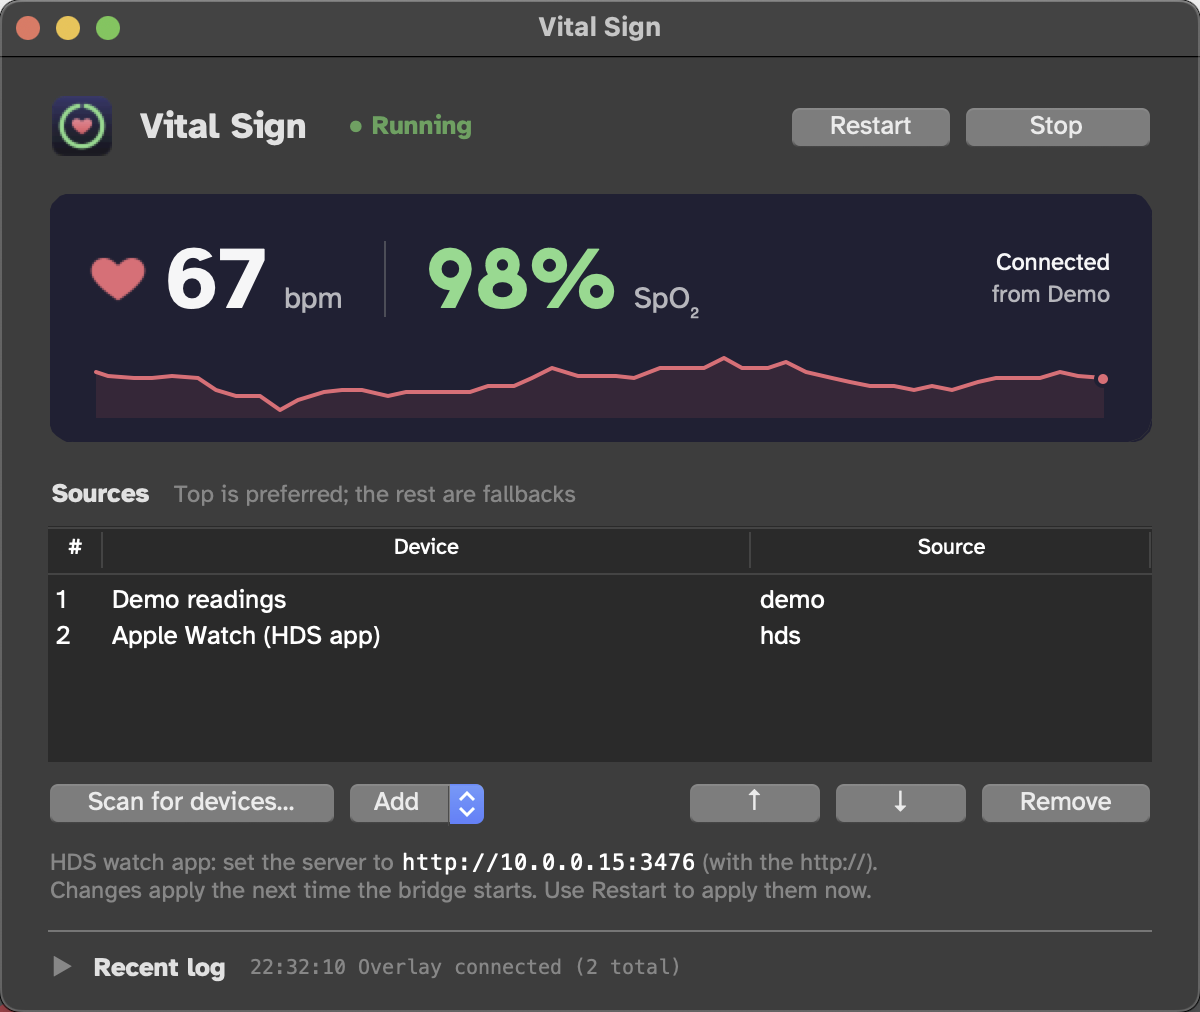
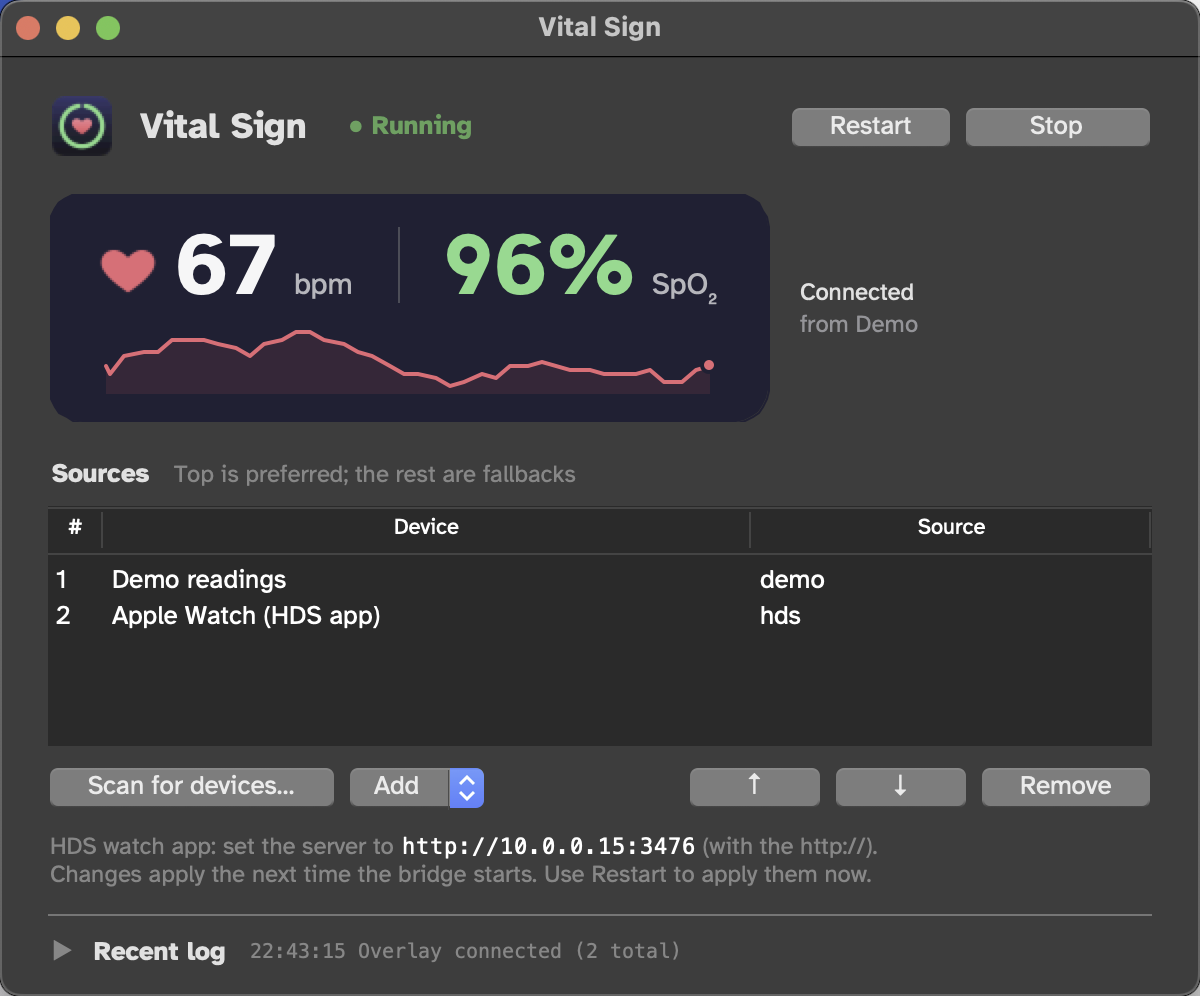
Make the control window's readout look like the OBS widget
The panel is now sized to its numbers with overlay.html's proportions
(scaled from 56 px to 44 px values), the trend is exactly as wide as the
heart-rate/SpO2 row, and the connection status moved out of the panel to
sit beside it. Previously the panel stretched across the window with the
trend running under the status text.

diff --git a/gui.py b/gui.py
@@ -60,6 +60,10 @@ EMPTY_SOURCES = "(none: the bridge scans for one supported Bluetooth device)"
 SOURCE_COLUMN_PX = 200
 # The platform's own text color (follows light/dark mode on macOS).
 TEXT_COLOR = {"darwin": "systemTextColor", "win32": "SystemWindowText"}.get(sys.platform, "black")
+STATUS_COLOR = {"darwin": "systemLabelColor", "win32": "SystemWindowText"}.get(sys.platform, "black")
+# Tk drops the alpha of macOS's secondary label color, so a fixed gray
+# that reads on both light and dark windows stands in for it.
+STATUS_SECONDARY = "#8e8e93"
 
 # bridge.log lines: "2026-10-11 21:20:58,376 INFO message"
 _LOG_LINE = re.compile(r"^\d{4}-\d\d-\d\d (\d\d:\d\d:\d\d),\d+ (\w+) (.*)$")
@@ -142,11 +146,24 @@ class Fonts:
 
 
 class Readout(tk.Canvas):
-    """A copy of the overlay panel: heart, BPM, SpO2, status, 5-minute trend."""
+    """The overlay's panel, as OBS shows it, plus status lines beside it.
 
-    PAD_TOP, PAD_SIDE, PAD_BOTTOM = 16, 20, 12
+    The panel is sized to its numbers like overlay.html's (whose
+    proportions are scaled here from its 56 px values to 44 px): heart and
+    BPM, a divider, SpO2, and the trend underneath, exactly as wide as that
+    row. The connection status sits outside the panel, on the window.
+    """
+
+    SCALE = 44 / 56  # overlay.html's .value is 56 px
+    PAD_X, PAD_Y = round(32 * SCALE), round(18 * SCALE)
+    GAP = round(10 * SCALE)  # inside a metric, and between the row and the trend
+    METRIC_GAP = round(28 * SCALE)  # around the divider
+    DIVIDER_H = round(48 * SCALE)
+    TREND_H = round(44 * SCALE)
+    RADIUS = round(20 * SCALE)
+    ROW_H = 44  # .value has line-height: 1
     HEART = 30
-    TREND_H, TREND_GAP = 34, 8
+    STATUS_GAP = 16
 
     def __init__(self, parent: tk.Misc, fonts: Fonts, bg: str) -> None:
         self.fonts = fonts
@@ -155,8 +172,7 @@ class Readout(tk.Canvas):
             stale: tk.PhotoImage(master=parent, file=str(brand.UI_DIR / name))
             for stale, name in ((False, "heart.png"), (True, "heart-stale.png"))
         }
-        self.row_h = fonts.value.metrics("linespace")
-        height = self.PAD_TOP + self.row_h + self.TREND_GAP + self.TREND_H + self.PAD_BOTTOM
+        height = self.PAD_Y + self.ROW_H + self.GAP + self.TREND_H + self.PAD_Y
         # 552 wide sets the window's natural width (600 with its padding).
         super().__init__(parent, width=552, height=height, highlightthickness=0, bd=0, bg=bg)
         self.hr: int | None = None
@@ -165,6 +181,8 @@ class Readout(tk.Canvas):
         self.source_line = ""
         self.stale = True
         self.history: list[tuple[float, int]] = []
+        self.panel_width = 0.0
+        self.trend_box = (0.0, 0.0, 0.0, 0.0)
         self.bind("<Configure>", lambda _e: self.redraw())
 
     def color(self, c: str) -> str:
@@ -185,46 +203,64 @@ class Readout(tk.Canvas):
         w = max(self.winfo_width(), 1)
         h = int(self.cget("height"))
         f = self.fonts
-        smooth_shape(self, brand.rounded_rect_points(0.5, 0.5, w - 0.5, h - 0.5, 12), brand.PANEL)
+        top = self.PAD_Y
+        # Baseline of a line-height: 1 box, as in the overlay's CSS.
+        ascent, descent = f.value.metrics("ascent"), f.value.metrics("descent")
+        baseline = top + (self.ROW_H - (ascent + descent)) / 2 + ascent
+        mid = top + self.ROW_H / 2
 
-        top = self.PAD_TOP
-        baseline = top + f.value.metrics("ascent")
-        mid = baseline - f.value.metrics("ascent") * 0.36  # middle of the digits
-        x = self.PAD_SIDE
-
-        self.create_image(x, mid - self.HEART / 2, image=self.heart_images[self.stale], anchor="nw")
-        x += self.HEART + 8
-        x = self._text(x, baseline, str(self.hr) if self.hr else "--", f.value, brand.INK) + 8
-        x = self._text(x, baseline, "bpm", f.unit, brand.INK_MUTED) + 20
-        self.create_line(x, mid - 19, x, mid + 19, fill=self.color(brand.DIVIDER))
-        x += 20 + 1
-
+        # Lay the row out first: the panel is sized to it.
+        items: list = []
+        x = self.PAD_X
+        items.append(("heart", x))
+        x += self.HEART + self.GAP
+        hr_text = str(self.hr) if self.hr else "--"
+        items.append(("text", x, hr_text, f.value, brand.INK))
+        x += f.value.measure(hr_text) + self.GAP
+        items.append(("text", x, "bpm", f.unit, brand.INK_MUTED))
+        x += f.unit.measure("bpm") + self.METRIC_GAP
+        items.append(("divider", x))
+        x += 1 + self.METRIC_GAP
         if self.spo2:
             spo2_color, marker = brand.spo2_severity(self.spo2)
-            x = self._text(x, baseline, f"{self.spo2}%", f.value, spo2_color)
+            items.append(("text", x, f"{self.spo2}%", f.value, spo2_color))
+            x += f.value.measure(f"{self.spo2}%")
             if marker:
-                self.create_text(
-                    x + 3, baseline - f.value.metrics("ascent") + 4, text=marker, font=f.marker,
-                    fill=self.color(spo2_color), anchor="nw",
-                )
+                items.append(("marker", x + 3, marker, spo2_color))
                 x += 3 + f.marker.measure(marker)
         else:
-            x = self._text(x, baseline, "--", f.value, brand.INK)
-        x = self._text(x + 8, baseline, "SpO₂", f.unit, brand.INK_MUTED)
+            items.append(("text", x, "--", f.value, brand.INK))
+            x += f.value.measure("--")
+        x += self.GAP
+        items.append(("text", x, "SpO₂", f.unit, brand.INK_MUTED))
+        row_right = x + f.unit.measure("SpO₂")
+        self.panel_width = row_right + self.PAD_X
 
-        # Right-aligned status, cut to the room left of it so a long device
-        # name can't run back over the numbers.
+        smooth_shape(self, brand.rounded_rect_points(0.5, 0.5, self.panel_width - 0.5, h - 0.5, self.RADIUS), brand.PANEL)
+        for item in items:
+            kind = item[0]
+            if kind == "heart":
+                # The overlay aligns the icon's box to the numbers' baseline.
+                self.create_image(item[1], baseline + 3, image=self.heart_images[self.stale], anchor="sw")
+            elif kind == "text":
+                _kind, ix, text, font, color = item
+                self._text(ix, baseline, text, font, color)
+            elif kind == "divider":
+                self.create_line(item[1], mid - self.DIVIDER_H / 2, item[1], mid + self.DIVIDER_H / 2, fill=self.color(brand.DIVIDER))
+            elif kind == "marker":
+                _kind, ix, marker, color = item
+                self.create_text(ix, baseline - ascent + 4, text=marker, font=f.marker, fill=self.color(color), anchor="nw")
+
+        self.trend_box = (self.PAD_X, top + self.ROW_H + self.GAP, row_right - self.PAD_X, self.TREND_H)
+        self._draw_trend(*self.trend_box)
+
+        # Status beside the panel, cut to the room that's left.
         line_h = f.small.metrics("linespace")
-        y = mid - (2 * line_h + 2) / 2
-        right = w - self.PAD_SIDE
-        room = max(right - x - 16, 0)
-        for i, (text, color) in enumerate(((self.state_line, brand.INK), (self.source_line, brand.INK_MUTED))):
-            self.create_text(
-                right, y + i * (line_h + 2), text=fit_text(text, f.small, room), font=f.small,
-                fill=self.color(color), anchor="ne",
-            )
-
-        self._draw_trend(self.PAD_SIDE, top + self.row_h + self.TREND_GAP, w - 2 * self.PAD_SIDE, self.TREND_H)
+        sx = self.panel_width + self.STATUS_GAP
+        room = max(w - sx, 0)
+        y = h / 2 - (2 * line_h + 2) / 2
+        for i, (text, color) in enumerate(((self.state_line, STATUS_COLOR), (self.source_line, STATUS_SECONDARY))):
+            self.create_text(sx, y + i * (line_h + 2), text=fit_text(text, f.small, room), font=f.small, fill=color, anchor="nw")
 
     def _text(self, x: float, baseline: float, text: str, font: tkfont.Font, color: str) -> float:
         """Draw ``text`` on ``baseline``; return the x just after it."""

diff --git a/tests/test_gui.py b/tests/test_gui.py
@@ -106,19 +106,18 @@ class GuiTest(unittest.TestCase):
         self.app._show_reading({"type": "reading", "worn": False, "source": "Ring"})
         self.assertEqual((r.hr, r.state_line, r.stale), (None, "Not worn", False))
 
-    def test_long_source_names_stop_short_of_the_numbers(self):
+    def test_long_source_names_stay_beside_the_panel(self):
         r = self.app.readout
         r.winfo_width = lambda: 552
         self.app.bridge_up = True
         name = "A Very Long Bluetooth Device Name That Goes On " * 3
         self.app._show_reading({"type": "reading", "hr": 100, "spo2": 100, "worn": True, "hr_source": name})
-        spo2_unit = next(i for i in r.find_all() if r.type(i) == "text" and r.itemcget(i, "text") == "SpO₂")
         source = next(i for i in r.find_all() if r.type(i) == "text" and r.itemcget(i, "text").startswith("from"))
-        self.assertTrue(r.itemcget(source, "text").endswith("…"))
-        # The source line's left edge stays right of the SpO2 label's right edge.
-        unit_right = r.coords(spo2_unit)[0] + self.app.fonts.unit.measure("SpO₂")
-        source_left = r.coords(source)[0] - self.app.fonts.small.measure(r.itemcget(source, "text"))
-        self.assertGreater(source_left, unit_right)
+        text = r.itemcget(source, "text")
+        self.assertTrue(text.endswith("…"))
+        left = r.coords(source)[0]
+        self.assertGreater(left, r.panel_width)  # outside the panel...
+        self.assertLessEqual(left + self.app.fonts.small.measure(text), 552)  # ...and inside the window
 
     def test_trend_spans_the_width_from_its_first_reading(self):
         r = self.app.readout
@@ -131,8 +130,18 @@ class GuiTest(unittest.TestCase):
         r.redraw()
         line = [i for i in r.find_all() if r.type(i) == "line" and len(r.coords(i)) == 6]
         xs = r.coords(line[-1])[0::2]
-        self.assertAlmostEqual(xs[0], r.PAD_SIDE + 4, delta=1)  # first reading at the left edge...
-        self.assertAlmostEqual(xs[-1], 552 - r.PAD_SIDE - 4, delta=2)  # ...newest at the right
+        x0, _y0, width, _h = r.trend_box
+        self.assertAlmostEqual(xs[0], x0 + 4, delta=1)  # first reading at the left edge...
+        self.assertAlmostEqual(xs[-1], x0 + width - 4, delta=2)  # ...newest at the right
+
+    def test_panel_is_sized_to_its_numbers_like_the_overlay(self):
+        r = self.app.readout
+        r.winfo_width = lambda: 552
+        r.hr, r.spo2 = 72, 98
+        r.redraw()
+        x0, _y0, width, _h = r.trend_box
+        self.assertLess(r.panel_width, 552 - 100)  # leaves room beside it for the status
+        self.assertAlmostEqual(x0 + width + r.PAD_X, r.panel_width)  # trend as wide as the row
 
     def test_log_summary_line(self):
         line, color = self.gui.short_log_line("2026-10-11 21:20:58,376 INFO Overlay connected (1 total)")

diff --git a/README.md b/README.md
@@ -117,15 +117,17 @@ connections for Python if the firewall asks.
 
 ## Control app
 
-![The Vital Sign control window: status and Start/Stop at the top, a live readout like the overlay's, the source list, and a collapsed log](docs/control-window.png)
+![The Vital Sign control window: status and Start/Stop at the top, the overlay's panel with the connection status beside it, the source list, and a collapsed log](docs/control-window.png)
 
 A small window for starting and stopping the bridge, watching the live
 numbers, and choosing sources without editing files. From the top:
 
 - **Header:** the bridge's status, Restart, and one Start/Stop button.
-- **Readout:** the same panel the overlay shows -- heart rate, SpO2 with
-  its severity color and marker, a 5-minute trend, and which source each
-  number comes from. It dims when readings stop, like the overlay.
+- **Readout:** a smaller copy of the overlay exactly as OBS shows it --
+  heart rate, SpO2 with its severity color and marker, and the 5-minute
+  trend, sized to its numbers. Beside it: the connection status and which
+  source each number comes from. It dims when readings stop, like the
+  overlay.
 - **Sources:** top is preferred, the rest are fallbacks. Scan for Bluetooth
   devices, add Apple Watch (HDS) or demo readings from **Add**, reorder with
   ↑/↓, remove. With HDS listed, the exact address to give the watch app is

diff --git a/CHANGELOG.md b/CHANGELOG.md
@@ -43,9 +43,9 @@ and this project adheres to [Semantic Versioning](https://semver.org/spec/v2.0.0
   instead of exiting. If several are in range, it lists them and waits
   for you to pick one. ([#7](https://github.com/CleverTrou/Vital-Sign/pull/7))
 - Requires Python 3.11 or newer. ([#7](https://github.com/CleverTrou/Vital-Sign/pull/7))
-- New look for the control window: the overlay's own readout panel with its
-  trend line, one Start/Stop button, a sources table, and a log that stays
-  collapsed until you need it. ([#9](https://github.com/CleverTrou/Vital-Sign/pull/9))
+- New look for the control window: a copy of the overlay panel as OBS shows
+  it, with the connection status beside it, one Start/Stop button, a sources
+  table, and a log that stays collapsed until you need it. ([#9](https://github.com/CleverTrou/Vital-Sign/pull/9))
 - The control window, the overlay's numbers and the wordmark use Atkinson
   Hyperlegible, a typeface designed for legibility. It's bundled and loaded
   only by Vital Sign; nothing is installed system-wide. ([#9](https://github.com/CleverTrou/Vital-Sign/pull/9))
